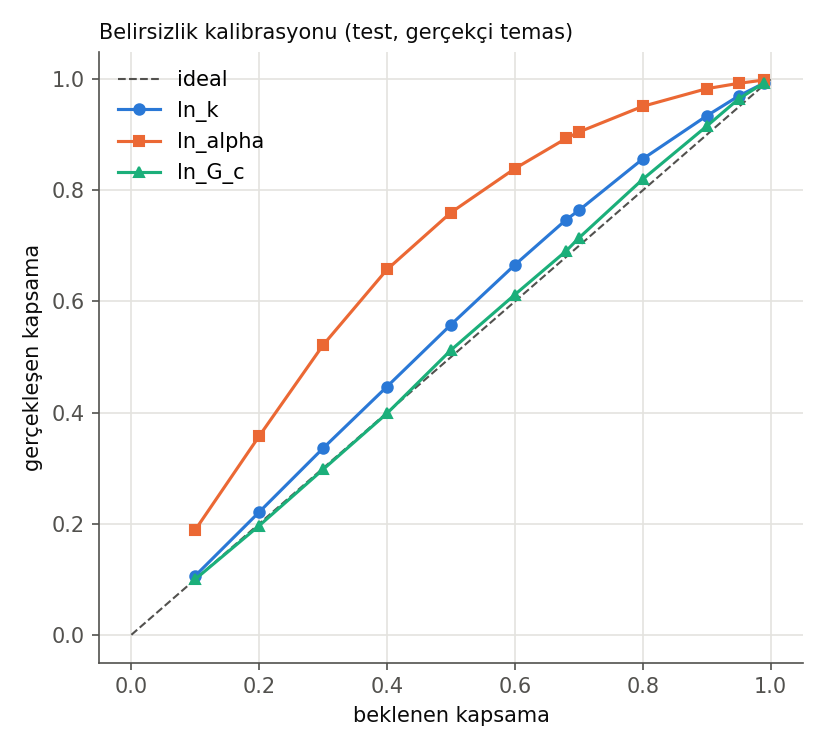
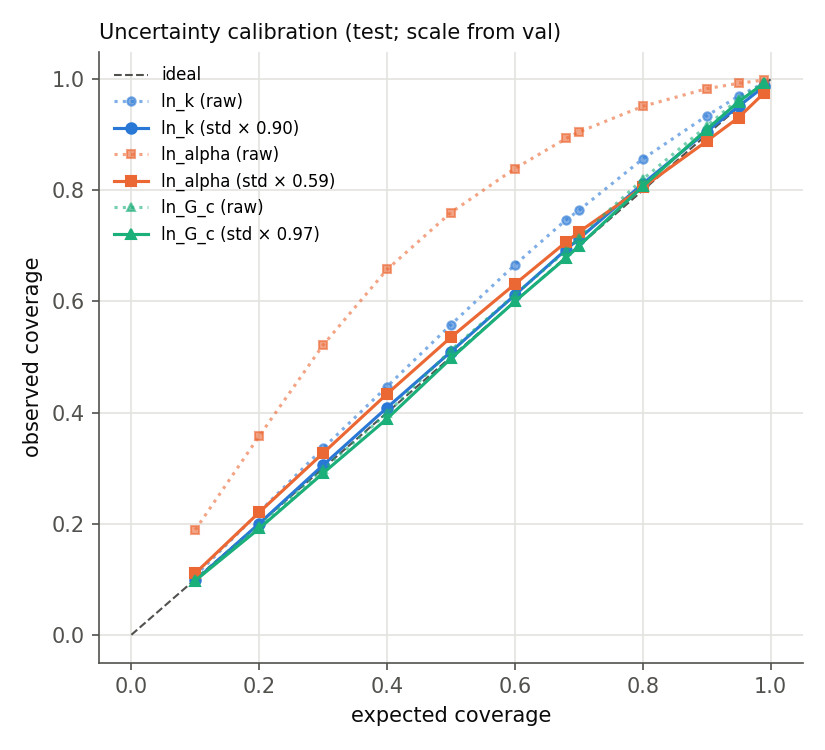
Phase 6 and trust v2 figures with English labels

diff --git a/docs/PROGRESS.md b/docs/PROGRESS.md
@@ -92,4 +92,4 @@
 - Flagged, v1 → v2: air gap 52.8% → 74.3%, thin sample 97.9% → 99.3%, drift jump 84.9% → 92.1%, asymmetry > 10 4.2% → 5.2%; false alarm 4.7% → 5.7% on test (5.0% on val).
 - Variance scale from val: ln k × 0.898, ln α × 0.589, ln G_c × 0.974; test coverage after scaling 69/95%, 71/93%, 68/96%.
 - Unflagged faulty measurements: 229, median k error −28%. Asymmetric contact still needs M0+.
-- Phase 6 figures on Drive (`tps-meter/reports/phase6/`, `phase6_trust/`) are English; the copies in git still have Turkish labels until they are brought into the repository.
+- Phase 6 figures (English) copied from Drive into `reports/phase6/`; trust v2 figures into `reports/phase6_trust/`.

diff --git a/reports/phase6.md b/reports/phase6.md
@@ -79,6 +79,8 @@ After Phase 6, new checks were added on the outputs of the frozen M2 v1. Code: `
 | ln α | 0.589 | 89.3% → 70.7% | 99.3% → 93.1% |
 | ln G_c | 0.974 | 69.1% → 67.8% | 96.4% → 96.0% |
 
+Figures: `phase6_trust/faulty_detection.png` (v1 vs v2) and `phase6_trust/calibration.png` (raw vs scaled coverage).
+
 With the scale all three targets are close to nominal coverage on test; the ln α interval shrinks by 41%. The ONNX graph is unchanged; the scale is in `trust_v2.json` and is applied as `std × scale` on the user side.
 
 ## Findings carried over from Phase 5
